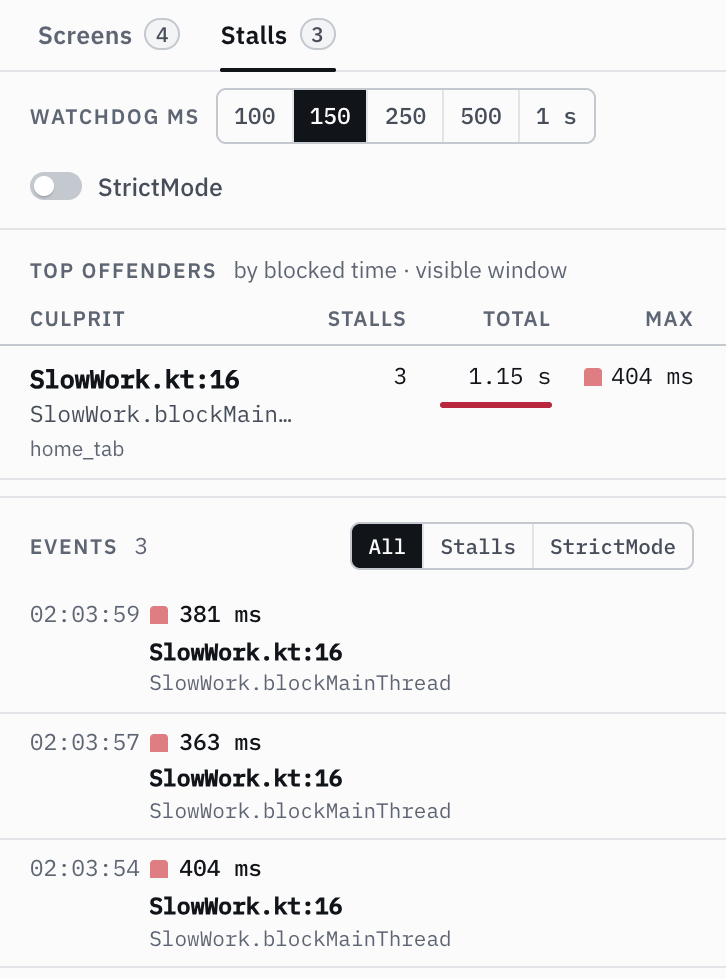
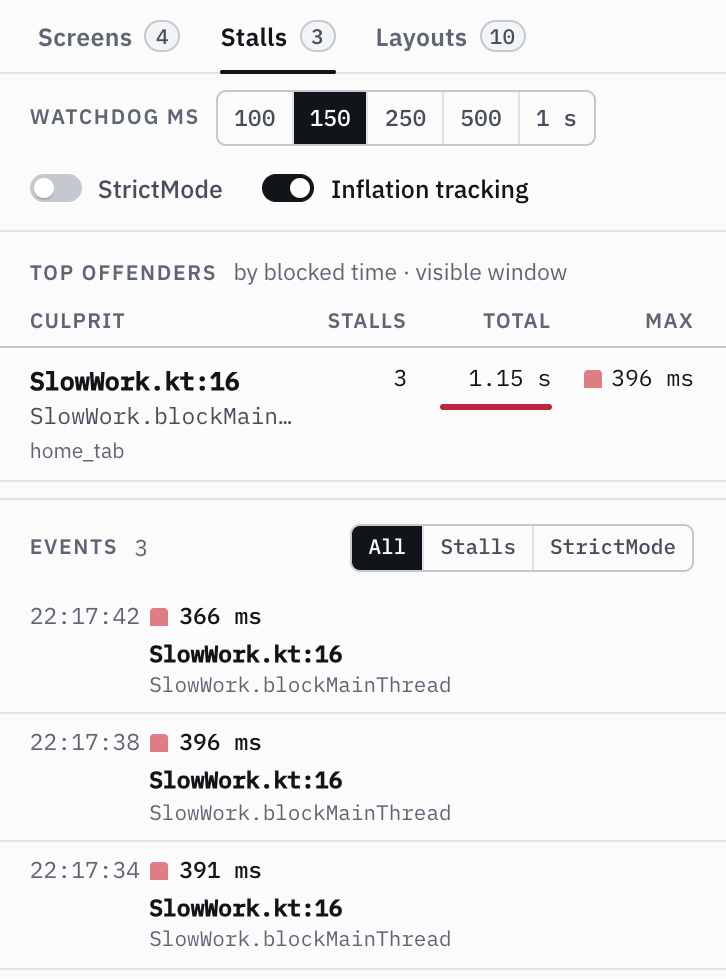
release: Lionscope 0.4.0

diff --git a/dashboard/src/components/topbar/SdkStatus.tsx b/dashboard/src/components/topbar/SdkStatus.tsx
@@ -8,11 +8,11 @@ import type { SdkStatus as SdkState } from '@lionscope/protocol/wire';
 export const SDK_GRADLE_SNIPPET = `// settings.gradle (dependencyResolutionManagement) or app/build.gradle repositories
 maven { url "https://jitpack.io"; content { includeGroup "com.github.risyadul.Lionscope" } }
 // app/build.gradle
-debugImplementation "com.github.risyadul.Lionscope:lionscope:0.3.1"`;
+debugImplementation "com.github.risyadul.Lionscope:lionscope:0.4.0"`;
 
 /** Projects that centralise repositories (FAIL_ON_PROJECT_REPOS) can't declare them per module. */
 export const SDK_SETTINGS_NOTE =
-  'If the project uses dependencyResolutionManagement, put the maven block in settings.gradle instead. Apps that call the Lionscope API explicitly also add releaseImplementation "com.github.risyadul.Lionscope:lionscope-noop:0.3.1".';
+  'If the project uses dependencyResolutionManagement, put the maven block in settings.gradle instead. Apps that call the Lionscope API explicitly also add releaseImplementation "com.github.risyadul.Lionscope:lionscope-noop:0.4.0".';
 
 type CopyState = 'idle' | 'copied' | 'failed';
 

diff --git a/dashboard/test/screensApp.test.tsx b/dashboard/test/screensApp.test.tsx
@@ -120,14 +120,14 @@ describe('SDK status', () => {
     fireEvent.click(button);
     const dialog = screen.getByRole('dialog', { name: 'Add the Lionscope SDK' });
     expect(dialog.textContent).toContain(
-      'debugImplementation "com.github.risyadul.Lionscope:lionscope:0.3.1"',
+      'debugImplementation "com.github.risyadul.Lionscope:lionscope:0.4.0"',
     );
     // Public JitPack artifact, repository scoped to the Lionscope group; no mavenLocal, no credentials.
     expect(dialog.textContent).toContain(
       'maven { url "https://jitpack.io"; content { includeGroup "com.github.risyadul.Lionscope" } }',
     );
     expect(dialog.textContent).toContain(
-      'releaseImplementation "com.github.risyadul.Lionscope:lionscope-noop:0.3.1"',
+      'releaseImplementation "com.github.risyadul.Lionscope:lionscope-noop:0.4.0"',
     );
     expect(dialog.textContent).not.toContain('mavenLocal');
     expect(dialog.textContent).toContain('dependencyResolutionManagement');

diff --git a/README.md b/README.md
@@ -26,8 +26,10 @@ janky list first.</sub>
 
 The dashboard is a single page: a top bar to pick the device and the app and to start or stop a session; the
 emulator's screen on the left; stacked timeline charts in the middle that share one time axis (last 1, 5 or 10
-minutes) and can be paused, with the app's logcat in a resizable drawer below them; and, with the SDK, the
-Screens, Stalls and Layouts tabs on the right. Below 1280 px the screen opens as a drawer from the top bar.
+minutes) and can be paused, with the app's logcat in a drawer below them (drag its bar to resize it,
+double-click the bar to maximise it; click, shift-click or Cmd/Ctrl-click lines and press Cmd/Ctrl+C to copy
+them); and, with the SDK, the Screens, Stalls and Layouts tabs on the right. Below 1280 px the screen opens as a
+drawer from the top bar.
 
 | Panel                                                 | Source                                                                                   | Interval |
 | ----------------------------------------------------- | ---------------------------------------------------------------------------------------- | -------- |
@@ -90,17 +92,24 @@ per stack, and at most 10 per second overall.
 
 With the SDK (0.4.0+ SDK and server), the **Layouts** tab lists the XML layouts the app inflates on the main
 thread through an `AppCompatActivity`'s inflater: how often, total, mean and slowest time, the views created by
-the slowest inflation, and the screens it ran on. It is sorted by total time; click a column to sort by it. Layouts that come from the Android framework or
-libraries (`abc_`, `mtrl_`, `design_`, …) are hidden until you switch on **Show library layouts**. A layout the
-SDK cannot name is shown by its first view and XML line (`Button:12`, in italics). A layout inflated inside
-another one (an `<include>`, or a compound view's own layout) gets its own row, marked **nested**, because that
-is its own cost; but its time is already part of the layout around it, so the row is not extra time. The
-Screens tab's **Inflate** column counts each inflation once, nested ones left out, and the gold lane markers
-only show top-level inflations. The Screens tab gets an
-**Inflate** column (inflation time on that screen, the slowest layout in the tooltip) and a **Views** column
-(views and depth from the screen's latest view tree, the deepest path in the tooltip). Inflations of 16 ms or
-more also appear as gold bars on the rail under the Main thread lane's baseline; hover one for the layout, its
-time, its views and the screen, click it to open the Layouts tab.
+the slowest inflation, and the screens it ran on. It is sorted by total time; click a column to sort by it.
+Layouts that come from the Android framework or libraries (`abc_`, `mtrl_`, `design_`, …) are hidden until you
+switch on **Show library layouts**. A layout the SDK cannot name is shown by its first view and XML line
+(`Button:12`, in italics). A layout inflated inside another one (an `<include>`, or a compound view's own
+layout) gets its own row, marked **nested**, because that is its own cost; but its time is already part of the
+layout around it, so the row is not extra time.
+
+<img width="363" alt="Layouts tab: the sample's layouts sorted by total inflation time, fragment_home first, its included dashboard cards marked nested, and item_row inflated 28 times on the list screen" src="docs/images/dashboard-layouts.png">
+
+<sub>The Layouts tab after opening the sample's screens: `fragment_home` is the slowest single inflation, its
+included cards (`view_dashboard_card`, nested) make up most of it, and `item_row` adds up over 28 RecyclerView
+rows.</sub>
+
+The Screens tab gets an **Inflate** column (inflation time on that screen, each inflation counted once and nested
+ones left out, the slowest layout in the tooltip) and a **Views** column (views and depth from the screen's
+latest view tree, the deepest path in the tooltip). Top-level inflations of 16 ms or more also appear as gold
+bars on the rail under the Main thread lane's baseline; hover one for the layout, its time, its views and the
+screen, click it to open the Layouts tab.
 
 How it is measured: the SDK installs a `LayoutInflater.Factory2` on each Activity before it is created and
 times view creation from the first view of a layout to the last, then hands the work on (AppCompat's view
@@ -222,7 +231,7 @@ credentials or opt-in property are needed.
 // settings.gradle (dependencyResolutionManagement) or app/build.gradle repositories
 maven { url "https://jitpack.io"; content { includeGroup "com.github.risyadul.Lionscope" } }
 // app/build.gradle
-debugImplementation "com.github.risyadul.Lionscope:lionscope:0.3.1"
+debugImplementation "com.github.risyadul.Lionscope:lionscope:0.4.0"
 ```
 
 If the project uses `dependencyResolutionManagement`, the `maven` block goes in `settings.gradle`; otherwise
@@ -255,7 +264,7 @@ Apps that call the API explicitly (`Lionscope.install()` / `Lionscope.isActive()
 release; for them there is a no-op artifact with the same API:
 
 ```groovy
-releaseImplementation "com.github.risyadul.Lionscope:lionscope-noop:0.3.1"
+releaseImplementation "com.github.risyadul.Lionscope:lionscope-noop:0.4.0"
 ```
 
 ### Cost when no dashboard is connected
@@ -414,7 +423,7 @@ cd android-sdk
 ./gradlew :lionscope:publishToMavenLocal :lionscope-noop:publishToMavenLocal   # same coordinates as JitPack
 ```
 
-The published version comes from the `lionscopeVersion` Gradle property (default `0.3.1`); on JitPack it is
+The published version comes from the `lionscopeVersion` Gradle property (default `0.4.0`); on JitPack it is
 the git tag. See [CONTRIBUTING.md](CONTRIBUTING.md) for how to contribute.
 
 ## License

diff --git a/CHANGELOG.md b/CHANGELOG.md
@@ -6,6 +6,8 @@ All notable changes to Lionscope are documented here. The format is based on
 
 ## [Unreleased]
 
+## [0.4.0] - 2026-10-22
+
 ### Added
 
 - Layout inflation timing (SDK, Android 10+, `AppCompatActivity` screens only; plain `Activity` and
@@ -32,11 +34,24 @@ All notable changes to Lionscope are documented here. The format is based on
 - Sample app: a heavier Home screen (nested cards with includes and a `<merge>`) and an off-main-thread inflate
   button.
 
+- Logcat: copy lines. Click a line to select it (shift-click for a range, Cmd/Ctrl-click to add or remove,
+  Cmd/Ctrl+A for all) and press Cmd/Ctrl+C, or use the copy button on a line; lines are copied as
+  `HH:MM:SS.mmm L Tag: message`.
+
 ### Changed
 
+- Logcat drawer: one toolbar row instead of three (grip, pid, "matched of buffered" line count, level chips,
+  search, Clear, collapse), so many more lines fit. The whole bar is the resize handle: drag anywhere but its
+  controls, double-click it to toggle the maximum height; the grip keeps the keyboard splitter. Warning and
+  error lines get a left rule and a light wash instead of a full tint.
 - Device protocol 3 (`inflate`, `viewtree`, `config.inflateTracking`) and dashboard protocol 3. 0.2.x and 0.3.x
   SDKs keep working with this server (they negotiate 2 and send nothing new), and a 0.4.0 SDK works with older
   servers.
+
+### Fixed
+
+- The logcat drawer's size limits: the column was never measured, so the default and maximum heights were
+  fixed numbers, and a maximised drawer could slide under the timeline toolbar.
 
 ## [0.3.1] - 2026-10-22
 
@@ -170,7 +185,8 @@ Initial open-source release.
 - SDK gateway over `adb reverse` (NDJSON over TCP): hello timeout, rate limits, line and connection caps, and
   PID verification against the session's device before any data is accepted.
 
-[Unreleased]: https://github.com/risyadul/Lionscope/compare/0.3.1...HEAD
+[Unreleased]: https://github.com/risyadul/Lionscope/compare/0.4.0...HEAD
+[0.4.0]: https://github.com/risyadul/Lionscope/compare/0.3.1...0.4.0
 [0.3.1]: https://github.com/risyadul/Lionscope/compare/0.3.0...0.3.1
 [0.3.0]: https://github.com/risyadul/Lionscope/compare/0.2.0...0.3.0
 [0.2.0]: https://github.com/risyadul/Lionscope/compare/0.1.1...0.2.0

diff --git a/cli/README.md b/cli/README.md
@@ -24,7 +24,7 @@ Options:
 ```
 
 Nothing needs to be installed on the device. For screen names and per-frame `FrameMetrics`, add the optional
-debug-only SDK to the app (`debugImplementation "com.github.risyadul.Lionscope:lionscope:0.3.1"` from JitPack).
+debug-only SDK to the app (`debugImplementation "com.github.risyadul.Lionscope:lionscope:0.4.0"` from JitPack).
 
 Documentation, the SDK and the source: <https://github.com/risyadul/Lionscope>. Licensed under the
 [Apache License 2.0](LICENSE); bundled third-party licenses are in `dist/THIRD_PARTY_NOTICES.txt`.
